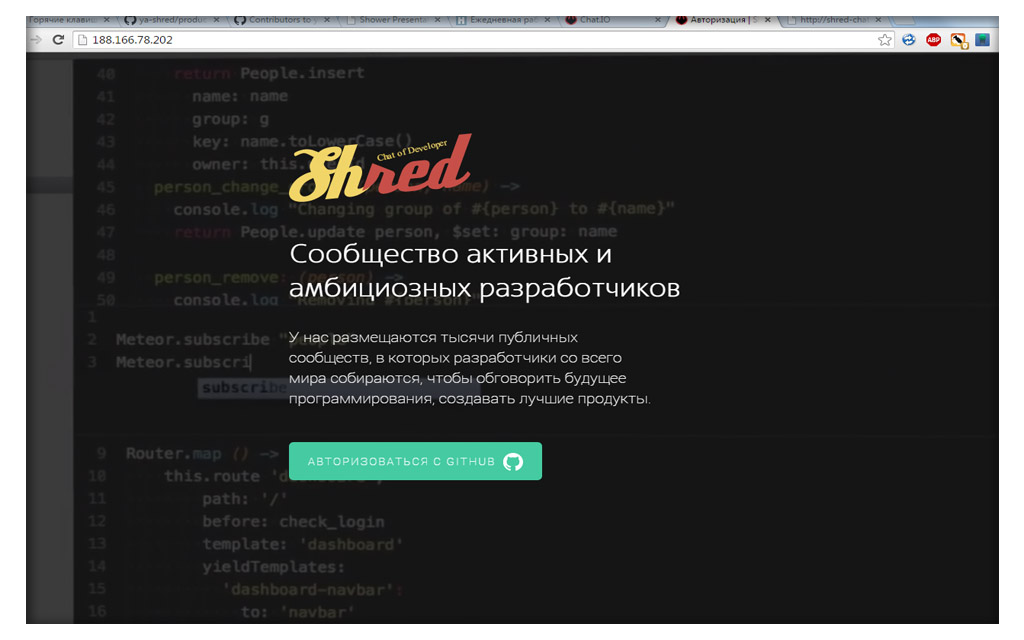
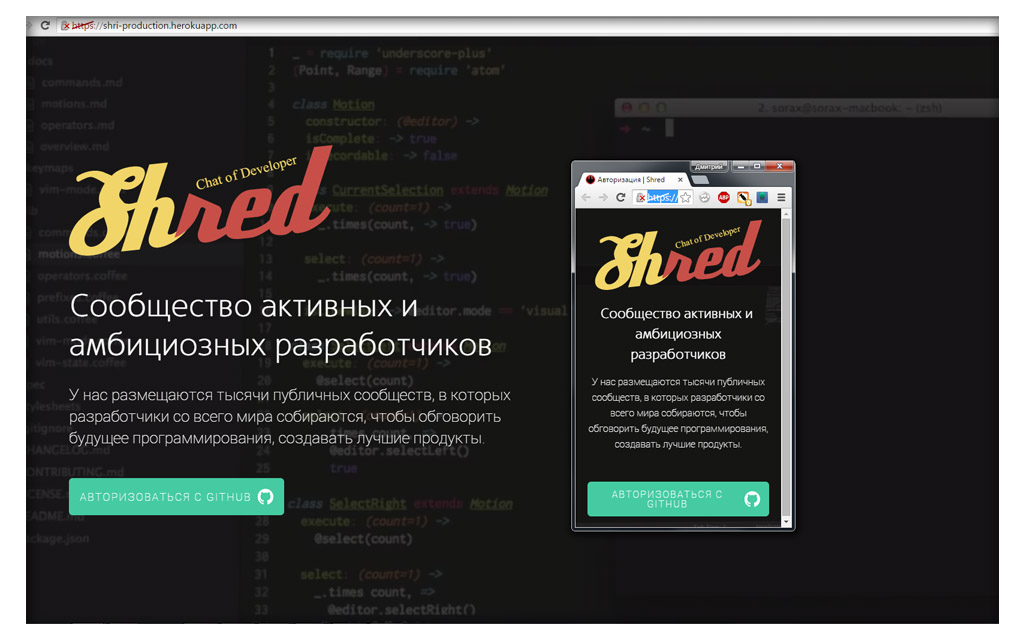
Изменил скрины и текст о странице авторизации

Changed region(s): [[0.0, 0.0, 1.0, 1.0], [0.5938, 0.1562, 1.0, 0.2188]]

diff --git a/index.html b/index.html
@@ -269,14 +269,7 @@
 </section>
 <div class="hide">
     Последний шрикатон был за одним столом с Евгением. Изменяли стиль стартовой страницы.
-</div>
-<section class="slide">
-    <div>
-        <img class="dim" src="img/dim/dim_2_4_2_pair_jenya_adaptation.jpg" alt="Shred">
-    </div>
-</section>
-<div class="hide">
-    А это рабочий вариант того что получилось у меня.
+	И вот примерно что получилось.
 </div>
 <section class="slide">
     <div>
